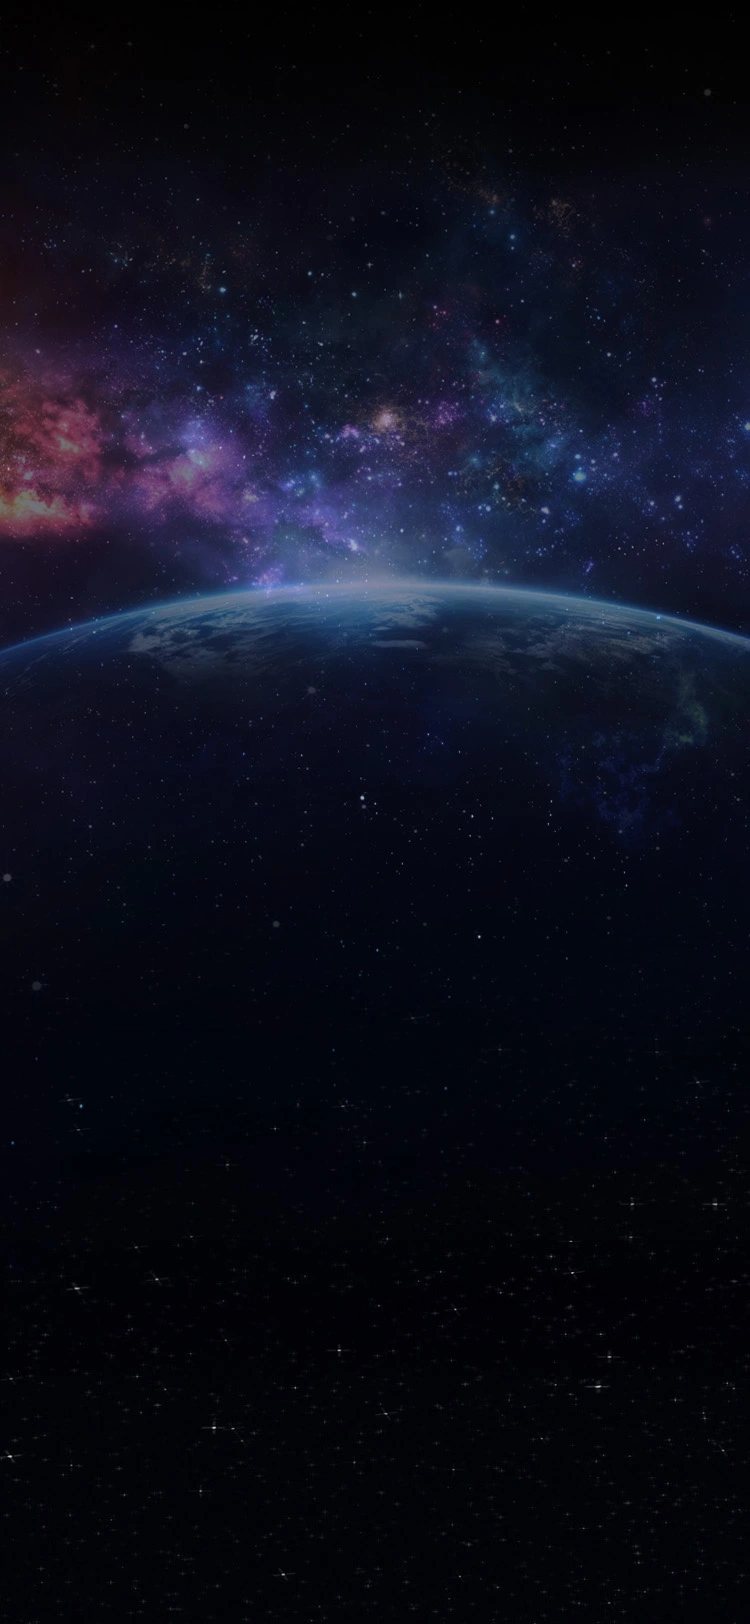
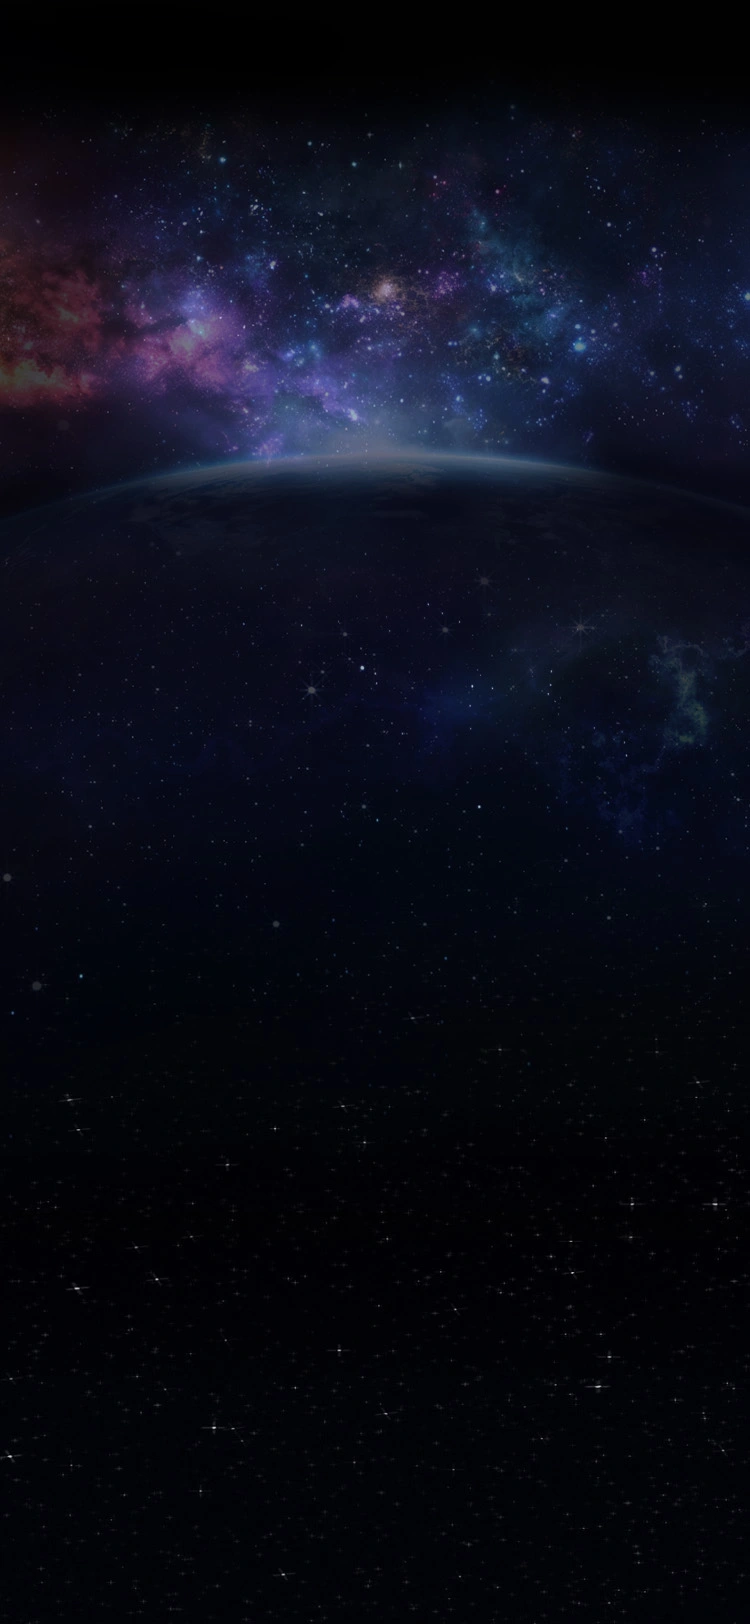
feat: update bg games

Changed region(s): [[0.0, 0.0924, 1.0, 0.431], [0.6747, 0.0616, 0.736, 0.1232], [0.7973, 0.0924, 0.828, 0.1232]]

diff --git a/src/styles/main.scss b/src/styles/main.scss
@@ -111,6 +111,8 @@ body {
     background: var(--page-background-color) var(--background-image);
     background-position: top center;
     background-attachment: fixed;
+    background-size: cover;
+    background-repeat: no-repeat;
 }
 
 body {

diff --git a/src/styles/components/animations/_star-field.scss b/src/styles/components/animations/_star-field.scss
@@ -6,7 +6,7 @@ $delay3: $duration + $delay2 - 1;
 
 .background-galaxy {
     position: absolute;
-    top: 3.2rem;
+    top: 0;
     height: 100%;
     left: 0;
     width: 100%;
